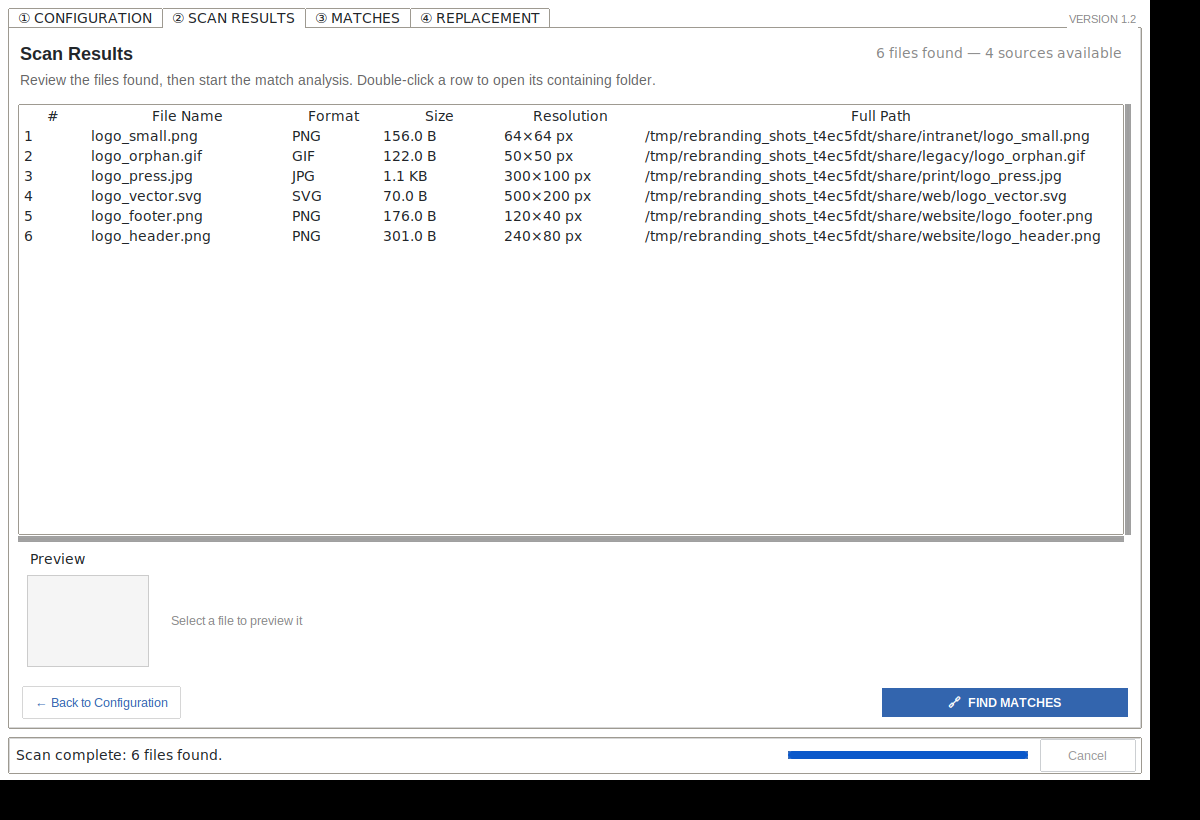
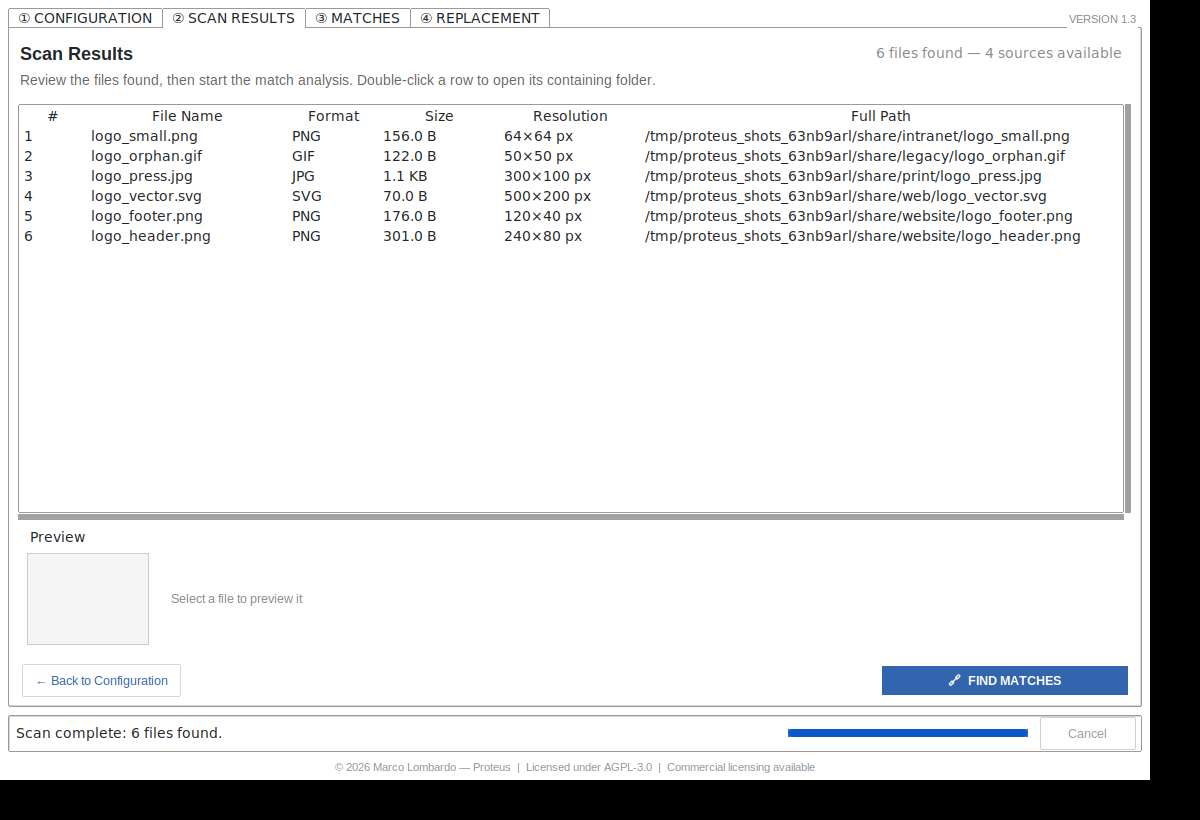
Rename the tool to Proteus and add the licence notice footer
Product identity

- The tool is now Proteus, with "Rebranding Tool" as its tagline: window title
  reads "Proteus - Rebranding Tool 1.3", README title is
  "Proteus - Rebranding Tool".
- Executable renamed to Proteus, log files to proteus_YYYYMMDD.log, logger to
  "proteus", temporary files to .proteus_*, and the per-user data folder to
  %LOCALAPPDATA%\Proteus (or ~/.local/share/Proteus).
- Version bumped to 1.3.
- Internal Python identifiers (rebranding_tool.py, RebrandingToolApp) are left
  as they are: they describe what the module does, which is exactly the
  tagline, and renaming them would add churn without adding clarity.

Licence notice footer

- Fixed bar along the bottom of the window, mirroring the one in Argus:
  "© 2026 Marco Lombardo — Proteus | Licensed under AGPL-3.0 | Commercial
  licensing available".
- Deliberately not translated: it is a legal notice rather than interface copy.
  Showing it is also how the application meets the "Appropriate Legal Notices"
  requirement of AGPL-3.0 section 5, which the README now states.
- Packed before the status bar so it sits at the very bottom; in Tk the first
  widget packed to a side reserves its space, so ordering is what keeps both
  bars from being clipped by the expanding notebook.

Documentation

- README, CLA, launchers, build script, CI artifact names and the screenshot
  generator all updated to the new name.
- Screenshots regenerated so they show the footer and the new version.
[…]

diff --git a/core.py b/core.py
@@ -2,7 +2,7 @@
 # -*- coding: utf-8 -*-
 
 """
-Rebranding Tool - application logic (no tkinter dependency).
+Proteus - application logic (no tkinter dependency).
 
 Everything that is not user interface lives here: scanning, matching, atomic
 replacement, backup/restore, CSV export, settings persistence and logging.
@@ -45,9 +45,23 @@ except ImportError:  # pragma: no cover - environment dependent
 # Application constants
 # ---------------------------------------------------------------------------
 
-APP_NAME = "Rebranding Tool"
-APP_VERSION = "1.2"
-APP_SLUG = "RebrandingTool"
+APP_NAME = "Proteus"
+#: Shown next to the name: Proteus is the product, this says what it does.
+APP_TAGLINE = "Rebranding Tool"
+APP_VERSION = "1.3"
+APP_SLUG = "Proteus"
+
+APP_AUTHOR = "Marco Lombardo"
+APP_COPYRIGHT_YEAR = "2026"
+
+#: Legal notice shown in the application footer. Kept in English in every
+#: language: it is a licence notice, not interface copy. Displaying it also
+#: satisfies the "Appropriate Legal Notices" requirement of AGPL-3.0 section 5.
+LICENSE_NOTICE = (
+    f"© {APP_COPYRIGHT_YEAR} {APP_AUTHOR} — {APP_NAME}"
+    "  |  Licensed under AGPL-3.0"
+    "  |  Commercial licensing available"
+)
 
 #: File types treated as images when collected from the source folder.
 SUPPORTED_FORMATS = frozenset({
@@ -158,7 +172,7 @@ def writable_app_dir(subfolder: str) -> str:
 # Logging
 # ---------------------------------------------------------------------------
 
-def setup_logging(logger_name: str = "rebranding_tool") -> logging.Logger:
+def setup_logging(logger_name: str = "proteus") -> logging.Logger:
     """
     Configure the application logger with rotation (5 files of 2 MB).
     Idempotent: repeated calls do not duplicate handlers.
@@ -170,7 +184,7 @@ def setup_logging(logger_name: str = "rebranding_tool") -> logging.Logger:
 
     try:
         log_dir = writable_app_dir("logs")
-        fname = f"rebranding_{datetime.datetime.now():%Y%m%d}.log"
+        fname = f"proteus_{datetime.datetime.now():%Y%m%d}.log"
         handler = RotatingFileHandler(
             os.path.join(log_dir, fname),
             maxBytes=2 * 1024 * 1024,
@@ -734,7 +748,7 @@ def replace_file(
             backup_path = make_backup_path(target)
             shutil.copy2(target, backup_path)
 
-        fd, tmp_path = tempfile.mkstemp(prefix=".rebranding_", dir=folder)
+        fd, tmp_path = tempfile.mkstemp(prefix=".proteus_", dir=folder)
         os.close(fd)
         shutil.copy2(source, tmp_path)
         os.replace(tmp_path, target)   # atomic on the same filesystem

diff --git a/rebranding_tool.py b/rebranding_tool.py
@@ -2,7 +2,7 @@
 # -*- coding: utf-8 -*-
 
 """
-Rebranding Tool - bulk replacement of logo and graphic files.
+Proteus - Rebranding Tool: bulk replacement of logo and graphic files.
 Graphical user interface.
 
 The application logic (scanning, matching, replacement) lives in `core.py` and
@@ -28,7 +28,9 @@ import core
 import i18n
 from core import (
     APP_NAME,
+    APP_TAGLINE,
     APP_VERSION,
+    LICENSE_NOTICE,
     FileInfo,
     Match,
     OperationCancelled,
@@ -142,7 +144,7 @@ class RebrandingToolApp:
     # ------------------------------------------------------------------
 
     def _apply_window_chrome(self):
-        self.root.title(f"{APP_NAME} {APP_VERSION}")
+        self.root.title(f"{APP_NAME} - {APP_TAGLINE} {APP_VERSION}")
         self.root.geometry("1150x780")
         self.root.minsize(940, 660)
 
@@ -317,9 +319,11 @@ class RebrandingToolApp:
     # ------------------------------------------------------------------
 
     def _create_widgets(self):
-        # The status bar must be packed *before* the notebook: in Tk whatever
+        # Both bottom bars must be packed *before* the notebook: in Tk whatever
         # comes first reserves its space, and a notebook with expand=True would
-        # squeeze the bar until its progressbar and button are clipped.
+        # squeeze them until their contents are clipped. The footer goes first so
+        # it ends up below the status bar.
+        self._build_footer()
         self._build_status_bar()
 
         self.notebook = ttk.Notebook(self.root)
@@ -350,6 +354,26 @@ class RebrandingToolApp:
         self._build_replace_tab(self._frame_replace)
 
         self.notebook.bind("<<NotebookTabChanged>>", self._on_tab_changed)
+
+    def _build_footer(self):
+        """
+        Fixed licence notice along the bottom of the window.
+
+        Deliberately not translated: it is a legal notice rather than interface
+        copy, and showing it is how the application meets the "Appropriate
+        Legal Notices" requirement of AGPL-3.0 section 5.
+        """
+        footer = ttk.Frame(self.root)
+        footer.pack(fill=tk.X, side=tk.BOTTOM, padx=8, pady=(0, 4))
+
+        self._footer_label = ttk.Label(
+            footer,
+            text=LICENSE_NOTICE,
+            font=("Arial", 8),
+            foreground="#8a94a0",
+            anchor=tk.CENTER,
+        )
+        self._footer_label.pack(fill=tk.X)
 
     def _build_status_bar(self):
         status_bar = ttk.Frame(self.root, relief=tk.SUNKEN)

diff --git a/build.py b/build.py
@@ -2,7 +2,7 @@
 # -*- coding: utf-8 -*-
 
 """
-Build script for Rebranding Tool, using PyInstaller.
+Build script for Proteus - Rebranding Tool, using PyInstaller.
 """
 
 from __future__ import annotations
@@ -39,7 +39,7 @@ def python_launcher() -> list[str]:
 
 class RebrandingToolBuilder:
     def __init__(self) -> None:
-        self.app_name = "RebrandingTool"
+        self.app_name = "Proteus"
         self.main_script = "main.py"
         self.output_dir = "dist"
         self.python = python_launcher()
@@ -184,19 +184,19 @@ class RebrandingToolBuilder:
 
         readme = Path(self.output_dir) / "READ_ME_FIRST.txt"
         readme.write_text(
-            "Rebranding Tool\n"
-            "===============\n\n"
+            "Proteus - Rebranding Tool\n"
+            "=========================\n\n"
             f"Executable: {os.path.basename(exe_path)}\n"
             "Logs are written to the 'logs' folder next to the executable.\n"
             "If the executable lives in a read-only location, logs go to\n"
-            "%LOCALAPPDATA%\\RebrandingTool\\logs instead.\n",
+            "%LOCALAPPDATA%\\Proteus\\logs instead.\n",
             encoding="utf-8",
         )
         return True
 
     def build(self) -> bool:
         print("=" * 55)
-        print("   REBRANDING TOOL - BUILD")
+        print("   PROTEUS - BUILD")
         print("=" * 55)
         print()
 

diff --git a/tests/test_core.py b/tests/test_core.py
@@ -412,7 +412,7 @@ def test_replace_file_leaves_target_intact_on_copy_failure(tmp_path, monkeypatch
     real_copy = core.shutil.copy2
 
     def failing_copy(src, dst, *args, **kwargs):
-        if os.path.basename(str(src)) == "logo.png" and ".rebranding_" in str(dst):
+        if os.path.basename(str(src)) == "logo.png" and ".proteus_" in str(dst):
             raise OSError("disco pieno")
         return real_copy(src, dst, *args, **kwargs)
 
@@ -422,7 +422,7 @@ def test_replace_file_leaves_target_intact_on_copy_failure(tmp_path, monkeypatch
     assert outcome.status == "error"
     assert open(target, "rb").read() == original
     leftovers = [f for f in os.listdir(os.path.dirname(target))
-                 if f.startswith(".rebranding_")]
+                 if f.startswith(".proteus_")]
     assert leftovers == []
 
 

diff --git a/docs/generate_screenshots.py b/docs/generate_screenshots.py
@@ -24,6 +24,7 @@ Requires `mss` for the screen capture:
 from __future__ import annotations
 
 import argparse
+import importlib.util
 import os
 import shutil
 import sys
@@ -115,13 +116,11 @@ def main(argv: list[str]) -> int:
               "  xvfb-run -a python docs/generate_screenshots.py", file=sys.stderr)
         return 1
 
-    try:
-        import mss  # noqa: F401
-    except ImportError:
+    if importlib.util.find_spec("mss") is None:
         print("The 'mss' package is required: pip install mss", file=sys.stderr)
         return 1
 
-    workdir = tempfile.mkdtemp(prefix="rebranding_shots_")
+    workdir = tempfile.mkdtemp(prefix="proteus_shots_")
     try:
         import tkinter as tk
 

diff --git a/assets/generate_icon.py b/assets/generate_icon.py
@@ -2,7 +2,7 @@
 # -*- coding: utf-8 -*-
 
 """
-Generate the application icon.
+Generate the Proteus application icon.
 
 The icon is committed as `app.ico`, but it is produced by this script so it can
 be regenerated or restyled without any binary editing. It is deliberately

diff --git a/i18n.py b/i18n.py
@@ -2,7 +2,7 @@
 # -*- coding: utf-8 -*-
 
 """
-Rebranding Tool - translation layer.
+Proteus - translation layer.
 
 English is the source language: the keys of the catalogue *are* the English
 strings, so untranslated text degrades gracefully to readable English instead

diff --git a/main.py b/main.py
@@ -2,7 +2,7 @@
 # -*- coding: utf-8 -*-
 
 """
-Rebranding Tool - application entry point.
+Proteus - Rebranding Tool: application entry point.
 """
 
 import os

diff --git a/README.md b/README.md
@@ -1,11 +1,14 @@
-# 🖼 Rebranding Tool
+# 🖼 Proteus - Rebranding Tool
 
 [![License: AGPL v3](https://img.shields.io/badge/License-AGPL%20v3-blue.svg)](https://www.gnu.org/licenses/agpl-3.0)
 [![Commercial License Available](https://img.shields.io/badge/Commercial%20License-Available-green.svg)](#license--commercial-licensing)
 [![Python 3.10+](https://img.shields.io/badge/Python-3.10%2B-blue.svg)](https://www.python.org/downloads/)
 [![Tests](https://img.shields.io/badge/tests-106-brightgreen.svg)](#development)
 
-Rebranding Tool is a Python desktop application for the **bulk replacement of logo and
+> **Proteus** — named after the shape-shifting sea god — is a rebranding tool: it changes
+> what your files look like without changing where they are.
+
+Proteus is a Python desktop application for the **bulk replacement of logo and
 graphic files** across a large folder tree — a company file server, a website checkout, a
 network share. You point it at a folder of new logos and a folder to scan; it finds the
 files that match a pattern, pairs each one with the most suitable replacement, shows you
@@ -69,7 +72,7 @@ across a website, an intranet, print templates and legacy folders — `logo_head
 means finding each one, guessing which new asset belongs where, and hoping you did not
 overwrite something with the wrong size.
 
-Rebranding Tool automates the finding and the pairing, but deliberately **keeps the human
+Proteus automates the finding and the pairing, but deliberately **keeps the human
 in the loop**: nothing is written until you have seen each proposed pairing, and every
 pairing carries a quality grade telling you where the automation is confident and where it
 is guessing.
@@ -106,6 +109,8 @@ is guessing.
 **Reporting**
 - CSV export of the proposed matches and of the replacement outcome
 - Rotating log files, with a fallback location when the application folder is read-only
+- A permanent licence notice in the window footer, satisfying the "Appropriate Legal
+  Notices" requirement of AGPL-3.0 section 5
 
 ---
 
@@ -339,7 +344,7 @@ display and reusable from a script.
 
 **Runtime data** is written next to the application, in `logs/` and `config/`. If that
 location is read-only — the typical `C:\Program Files` install — both fall back to
-`%LOCALAPPDATA%\RebrandingTool\` (or `~/.local/share/RebrandingTool/` elsewhere). Logs
+`%LOCALAPPDATA%\Proteus\` (or `~/.local/share/Proteus/` elsewhere). Logs
 rotate at 2 MB, keeping five files.
 
 ---
@@ -351,7 +356,7 @@ python build.py
 ```
 
 On Windows, `compile.bat` does the same. The result is a single-file
-`dist/RebrandingTool.exe` (~21 MB), with the icon embedded and a `logs/` folder prepared
+`dist/Proteus.exe` (~21 MB), with the icon embedded and a `logs/` folder prepared
 alongside it.
 
 The build script installs anything missing, picks the right `--add-data` separator for the
@@ -429,7 +434,7 @@ previews or read resolutions, and says so on the configuration tab.
 
 ## License & Commercial Licensing
 
-Rebranding Tool is open-source software released under the
+Proteus is open-source software released under the
 **[GNU Affero General Public License v3.0 (AGPL-3.0)](LICENSE)**.
 
 ### What AGPL-3.0 Means for You
@@ -445,13 +450,13 @@ Rebranding Tool is open-source software released under the
 
 ### Commercial Licensing
 
-If you need to use Rebranding Tool in a **proprietary application**, a **closed-source
+If you need to use Proteus in a **proprietary application**, a **closed-source
 service**, or an **enterprise deployment** without being bound by the AGPL-3.0 copyleft
 requirements, a **commercial license** is available.
 
 A commercial license grants you the right to:
 
-- embed Rebranding Tool in closed-source software,
+- embed Proteus in closed-source software,
 - run it as part of a service without disclosing your source code,
 - use it in commercial products without AGPL obligations.
 

diff --git a/CLA.md b/CLA.md
@@ -1,9 +1,9 @@
 # Contributor License Agreement (CLA)
 
-**Rebranding Tool — Individual Contributor License Agreement**  
+**Proteus — Individual Contributor License Agreement**  
 Version 1.0, August 2026
 
-Thank you for your interest in contributing to **Rebranding Tool** (the "Project"), maintained by **Marco Lombardo** (the "Project Owner").
+Thank you for your interest in contributing to **Proteus** (the "Project"), maintained by **Marco Lombardo** (the "Project Owner").
 
 This Contributor License Agreement ("Agreement") documents the rights granted by contributors to the Project Owner. This is a legally binding document, so please read it carefully before agreeing. This Agreement protects both you (the contributor) and the Project Owner by clarifying the intellectual property rights associated with your contributions.
 
@@ -17,8 +17,8 @@ By submitting a Pull Request, filing an Issue with a proposed fix, or otherwise 
 
 - **"You"** (or **"Contributor"**) means the individual or legal entity that submits a Contribution to the Project Owner. If a legal entity is signing, "You" includes all entities that control, are controlled by, or are under common control with that entity.
 - **"Contribution"** means any original work of authorship, including but not limited to: source code, object code, patches, bug fixes, configuration files, documentation, tests, translations, language catalogues, artwork, or any other materials submitted by You to the Project Owner for inclusion in, or documentation of, the Project, in any form or via any channel.
-- **"Project Owner"** means **Marco Lombardo**, the sole copyright holder and maintainer of Rebranding Tool.
-- **"Project"** means the Rebranding Tool software and all associated documentation hosted at the official GitHub repository.
+- **"Project Owner"** means **Marco Lombardo**, the sole copyright holder and maintainer of Proteus.
+- **"Project"** means the Proteus software and all associated documentation hosted at the official GitHub repository.
 - **"Submit"** means any act of uploading, sending, transmitting, or otherwise making available to the Project Owner a Contribution, including electronic mail lists, source code control systems, and issue tracking systems managed by or on behalf of the Project Owner.
 
 ---
